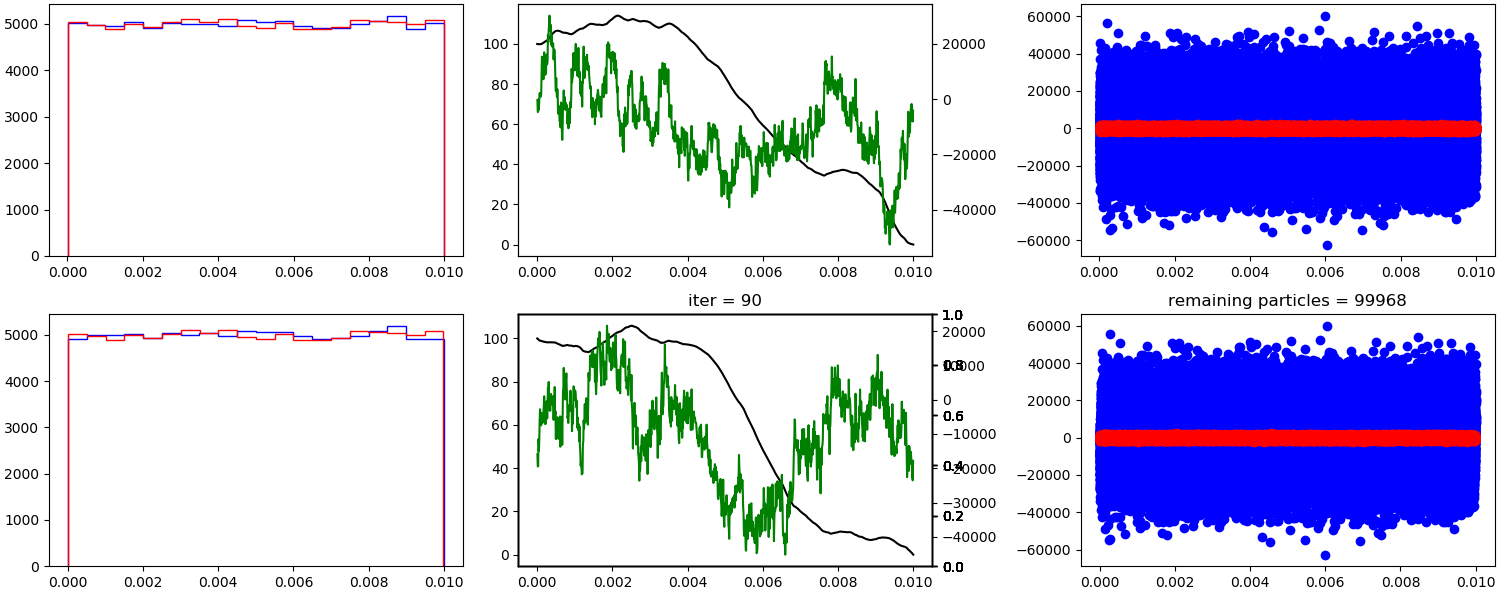
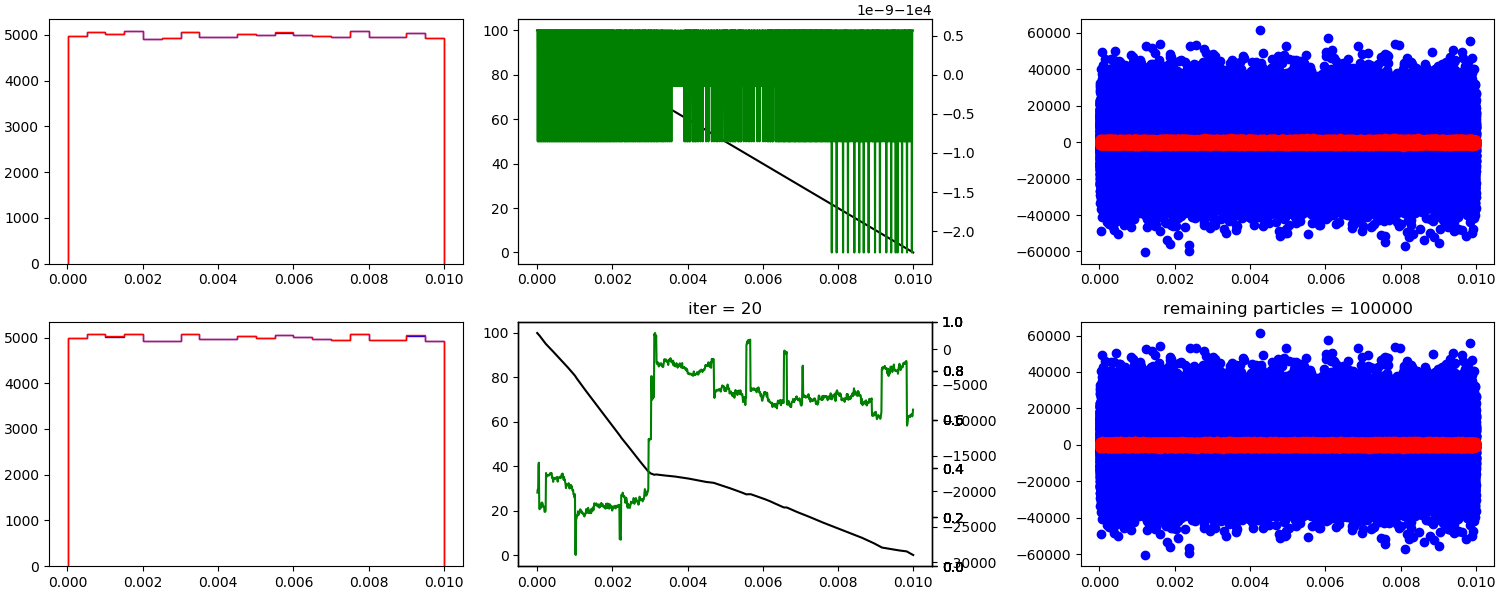
Add smoothing potential
The E-field from direvative of potenital is too noisy that particles can be easily trapped. And the potential solution from 1d Poison solver jumps around. Potential array is soomthed using savgol_filter and hope it will improve the E-filed

diff --git a/ESPIC1d_run.py b/ESPIC1d_run.py
@@ -31,14 +31,14 @@ den_limit = 1.0e11 # in m-3, lower limit of denisty, avoid 0 density
 
 # Model Parameters
 num_ptcl = 100000 # number of particles, should be >> ncellx to reduce noise
-dt = 1.0e-11 # in sec
-num_iter = 10001 # number of iterations
+dt = 1.0e-12 # in sec
 
 den_per_ptcl = nEon_init/num_ptcl # density contained in one particle
 
 # initialize the position and velcotiy in a dataframe
 posn_Eon, vels_Eon = init.init_data(num_ptcl,ptcl.Eon.temp,ptcl.Eon.mass,width)
 posn_Arp, vels_Arp = init.init_data(num_ptcl,ptcl.Arp.temp,ptcl.Arp.mass,width)
+posn_Arp = posn_Eon.copy()
 
 # create mesh
 gridx, cell_center, dx = init.init_mesh(ncellx,width)
@@ -74,14 +74,15 @@ ax[0,2].plot(posn_Arp,vels_Arp,'ro')
 ax[1,0].hist(posn_Eon,bins=20,histtype='step',color='blue')
 ax[1,0].hist(posn_Arp,bins=20,histtype='step',color='red')
 ax[1,1].plot(gridx,pot,'k-')
-ax[1,1].set_title('iter = %d' % i)
+ax[1,1].set_title('iter = 0')
 ax_temp1 = ax[1,1].twinx()
 ax_temp1.plot(cell_center,efld,'g-')
 ax[1,2].plot(posn_Eon,vels_Eon,'bo')
 ax[1,2].plot(posn_Arp,vels_Arp,'ro')
 ax[1,2].set_title('remaining particles = %d' % num_ptcl)
 
-nout_iter = 100
+num_iter = 10001 # number of iterations
+nout_iter = 500
 for i in range(num_iter):
     # assign charge densities to grid nodes, unit in UNIT_CHARGE
     den_Eon = move.den_asgmt(posn_Eon,gridx,dx)*den_per_ptcl
@@ -94,6 +95,7 @@ for i in range(num_iter):
     posn_Eon, vels_Eon = move.move_ptcl(ptcl.Eon,posn_Eon,vels_Eon,efld,dt,width)
     posn_Arp, vels_Arp = move.move_ptcl(ptcl.Arp,posn_Arp,vels_Arp,efld,dt,width)
     num_ptcl = len(posn_Eon)
+    if i % 10 == 0: print('iter = %d' % i)
     if i % nout_iter == 0:
         # plot animation    
         for item in ax[1,:]:
@@ -110,8 +112,9 @@ for i in range(num_iter):
         ax[1,2].plot(posn_Eon,vels_Eon,'bo')
         ax[1,2].plot(posn_Arp,vels_Arp,'ro')
         ax[1,2].set_title('remaining particles = %d' % num_ptcl)
-        fig.canvas.draw()
-        plt.pause(0.1)
+#        fig.canvas.draw()
+        fig.savefig('ITER_{:03}.png'.format(i))
+#        plt.pause(0.1)
 
 fig.savefig('ES-PIC1d.png')
 #plt.show()

diff --git a/Poisson_solver_1d.py b/Poisson_solver_1d.py
@@ -4,6 +4,7 @@
 import Constants as cst
 import numpy as np
 import matplotlib.pyplot as plt
+from scipy.signal import savgol_filter
 
 def Poisson_solver_1d(ncellx,width,den_chrg,bc):
     """
@@ -46,6 +47,7 @@ def Poisson_solver_1d(ncellx,width,den_chrg,bc):
     b = bc[0] + invA_den_chrg[0] - a*gridx[0]
     
     pot = -invA_den_chrg + a*gridx + b
+    pot = savgol_filter(pot, 7, 2) # window size 10, polynomial order 3
     efld = [(pot[i+1]-pot[i])/dx for i in range(ncellx)]
     return pot, efld
 
